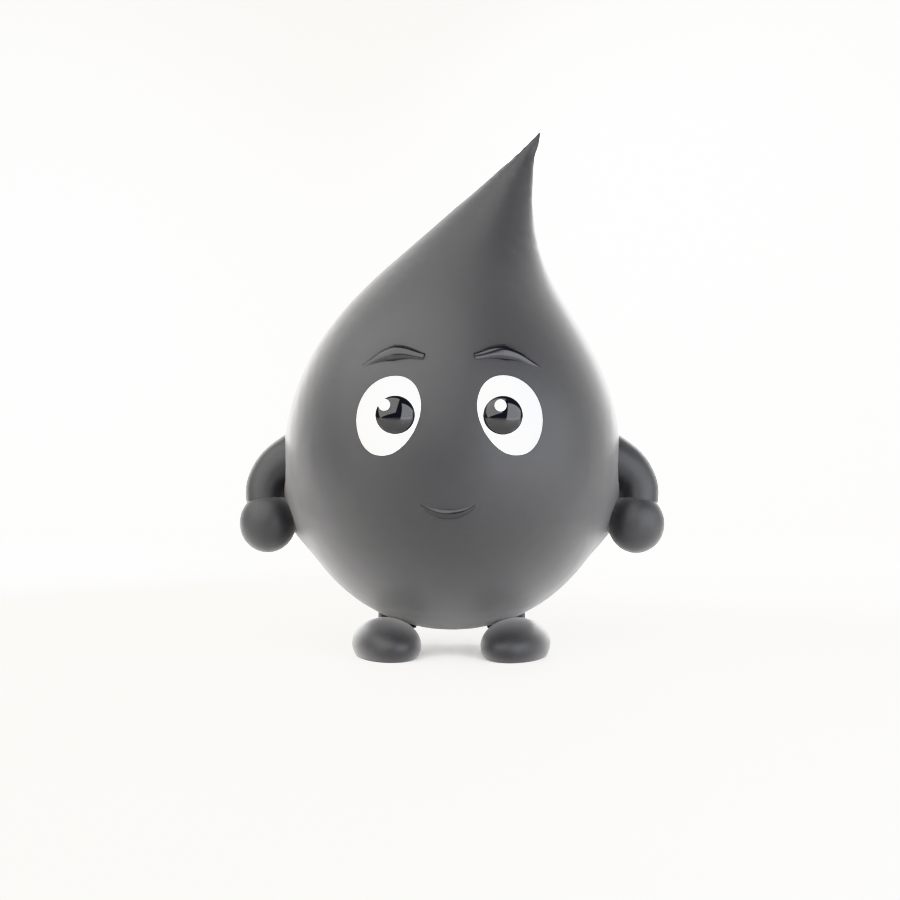
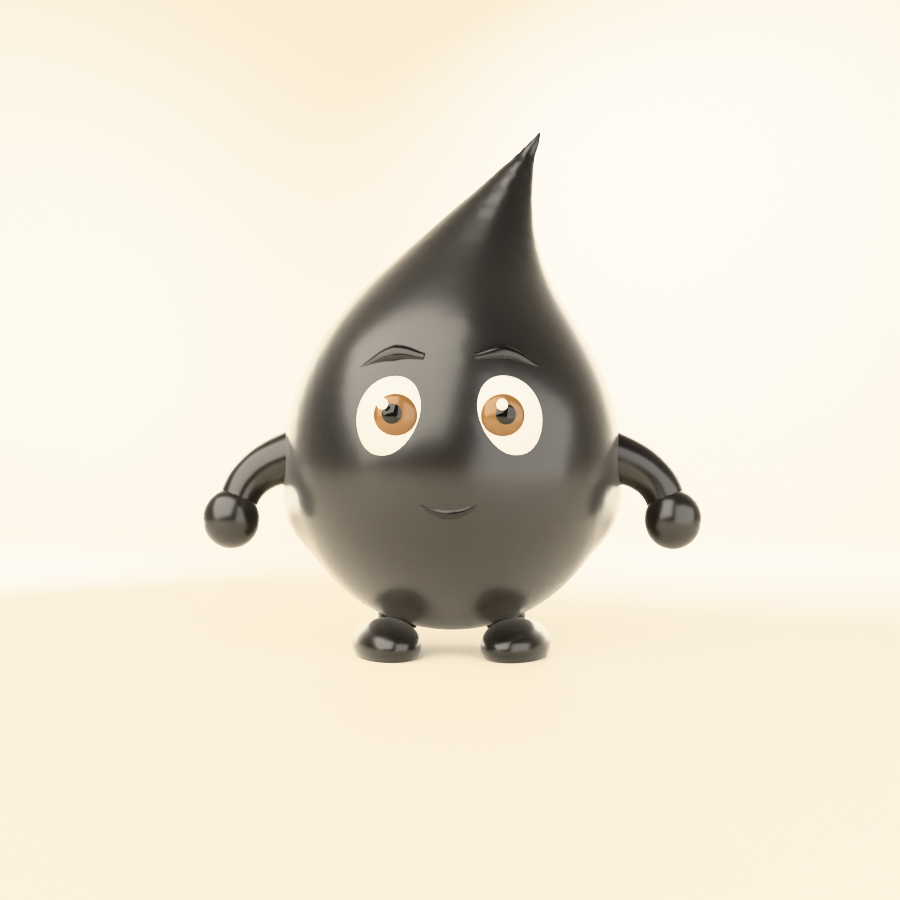
feat: Clio pro finish — glazed ink, warm golden studio, amber eyes
Reference-guided polish: semi-gloss glazed ink with smooth traveling
highlights (replacing flat matte), warm golden key/fill/world on warm
paper, deep amber irises with black pupils, fists given breathing
room from the body.

diff --git a/tools/clio-character/build_clio.py b/tools/clio-character/build_clio.py
@@ -102,10 +102,11 @@ def simple_mat(name, color, rough, coat=0.0, sheen=0.0):
     return m
 
 
-ink_mat = simple_mat('ClioInk', (0.006, 0.006, 0.008), 0.52, coat=0.04, sheen=0.4)  # matte black ink
+ink_mat = simple_mat('ClioInk', (0.006, 0.006, 0.008), 0.28, coat=0.35, sheen=0.2)  # matte black ink
 gloss_black = simple_mat('GlossBlack', (0.01, 0.01, 0.012), 0.18)  # brows/mouth/limbs
 white_mat = simple_mat('EyeWhite', (0.96, 0.965, 0.97), 0.15)
 pupil_mat = simple_mat('Pupil', (0.008, 0.008, 0.01), 0.05)
+iris_mat = simple_mat('Iris', (0.16, 0.085, 0.035), 0.2)
 body.data.materials.append(ink_mat)
 
 # ── Surface projection helper ────────────────────────────────────────────────
@@ -138,9 +139,11 @@ def make_eye(side, name):
 
     add_sphere(f'{name}_white', center, 0.185, (0.92, 0.55, 1.05), white_mat)
 
-    # Large black pupil, looking slightly inward like the reference
-    pupil_pos = center + n * 0.085 + mathutils.Vector((-0.03 * side, 0.0, 0.005))
-    add_sphere(f'{name}_pupil', pupil_pos, 0.088, (1.0, 0.55, 1.0), pupil_mat, segments=32)
+    # Warm brown iris with a black pupil, looking slightly inward
+    iris_pos = center + n * 0.082 + mathutils.Vector((-0.03 * side, 0.0, 0.005))
+    add_sphere(f'{name}_iris', iris_pos, 0.096, (1.0, 0.5, 1.0), iris_mat, segments=32)
+    pupil_pos = center + n * 0.105 + mathutils.Vector((-0.03 * side, 0.0, 0.005))
+    add_sphere(f'{name}_pupil', pupil_pos, 0.058, (1.0, 0.55, 1.0), pupil_mat, segments=32)
 
     # Catchlight — the toy-render spark
     cl_pos = pupil_pos + n * 0.05 + mathutils.Vector((-0.028, 0.0, 0.035))
@@ -184,8 +187,8 @@ arc('Mouth', [(-0.28, -1.0, -0.36), (0.0, -1.0, -0.48), (0.28, -1.0, -0.36)], 0.
 # ── Arms: stubby, bent, mitten fists ─────────────────────────────────────────
 def make_arm(side, name):
     shoulder, sn = surf((1.0 * side, -0.10, -0.12))
-    elbow = shoulder + mathutils.Vector((0.07 * side, -0.03, -0.16))
-    fist_c = elbow + mathutils.Vector((0.0, -0.05, -0.20))
+    elbow = shoulder + mathutils.Vector((0.15 * side, -0.04, -0.15))
+    fist_c = elbow + mathutils.Vector((0.09 * side, -0.05, -0.19))
 
     curve = bpy.data.curves.new(name, 'CURVE')
     curve.dimensions = '3D'
@@ -237,7 +240,7 @@ make_leg(-1, 'LegL')
 make_leg(1, 'LegR')
 
 # ── Stage: warm white studio ─────────────────────────────────────────────────
-stage_mat = simple_mat('StageMat', (0.975, 0.965, 0.945), 0.6)
+stage_mat = simple_mat('StageMat', (0.93, 0.87, 0.76), 0.55)
 bpy.ops.mesh.primitive_plane_add(size=30, location=(0, 4, FLOOR_Z))
 floor = bpy.context.active_object
 floor.name = 'Stage'
@@ -262,10 +265,10 @@ def area_light(name, loc, rot, power, size, color=(1, 1, 1)):
     return obj
 
 
-area_light('Key', (-3.0, -3.6, 4.8), (math.radians(44), math.radians(-16), math.radians(-30)), 1050, 9.0,
-           (1.0, 0.985, 0.96))
-area_light('Fill', (3.6, -3.2, 1.6), (math.radians(75), math.radians(18), math.radians(38)), 560, 6.0,
-           (0.94, 0.96, 1.0))
+area_light('Key', (-3.0, -3.6, 4.8), (math.radians(44), math.radians(-16), math.radians(-30)), 1250, 8.0,
+           (1.0, 0.93, 0.80))
+area_light('Fill', (3.6, -3.2, 1.6), (math.radians(75), math.radians(18), math.radians(38)), 460, 6.0,
+           (0.95, 0.90, 0.82))
 area_light('Rim', (1.8, 3.6, 3.6), (math.radians(-50), math.radians(12), math.radians(160)), 800, 3.0,
            (0.97, 0.98, 1.0))
 area_light('RimL', (-3.4, 3.0, 2.8), (math.radians(-55), math.radians(-10), math.radians(-155)), 550, 2.5,
@@ -274,7 +277,7 @@ area_light('RimL', (-3.4, 3.0, 2.8), (math.radians(-55), math.radians(-10), math
 world = bpy.data.worlds.new('World')
 scene.world = world
 world.use_nodes = True
-world.node_tree.nodes['Background'].inputs['Color'].default_value = (0.97, 0.96, 0.94, 1.0)
+world.node_tree.nodes['Background'].inputs['Color'].default_value = (0.95, 0.88, 0.76, 1.0)
 world.node_tree.nodes['Background'].inputs['Strength'].default_value = 0.26
 
 # ── Camera ───────────────────────────────────────────────────────────────────
